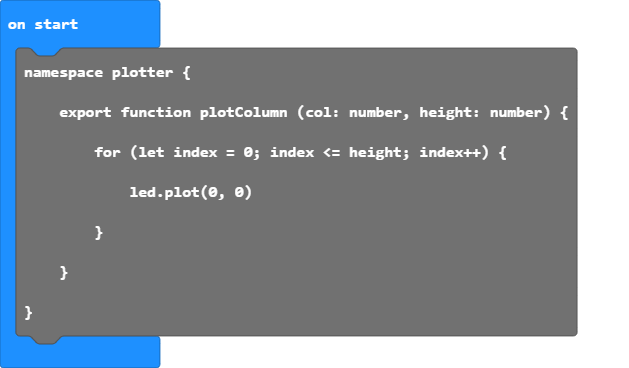
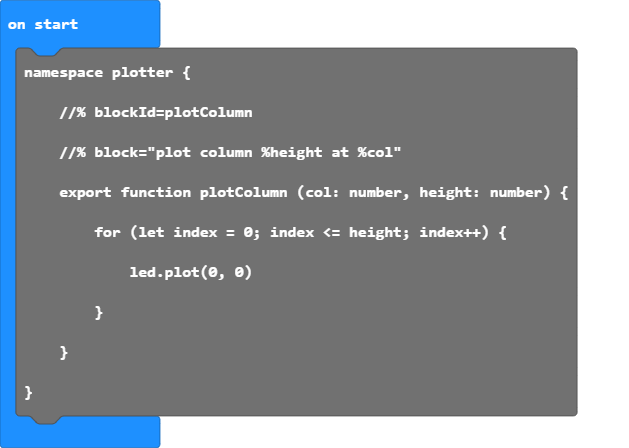
Update main.blocks, main.ts

diff --git a/main.ts b/main.ts
@@ -1,9 +1,9 @@
 namespace plotter {
     //% blockId=plotColumn
-    //% block="plot column %height at %col"
+    //% block="plot column %height high at %col"
     export function plotColumn (col: number, height: number) {
         for (let index = 0; index <= height; index++) {
-            led.plot(0, 0)
+            led.plot(col, index)
         }
     }   
 }
